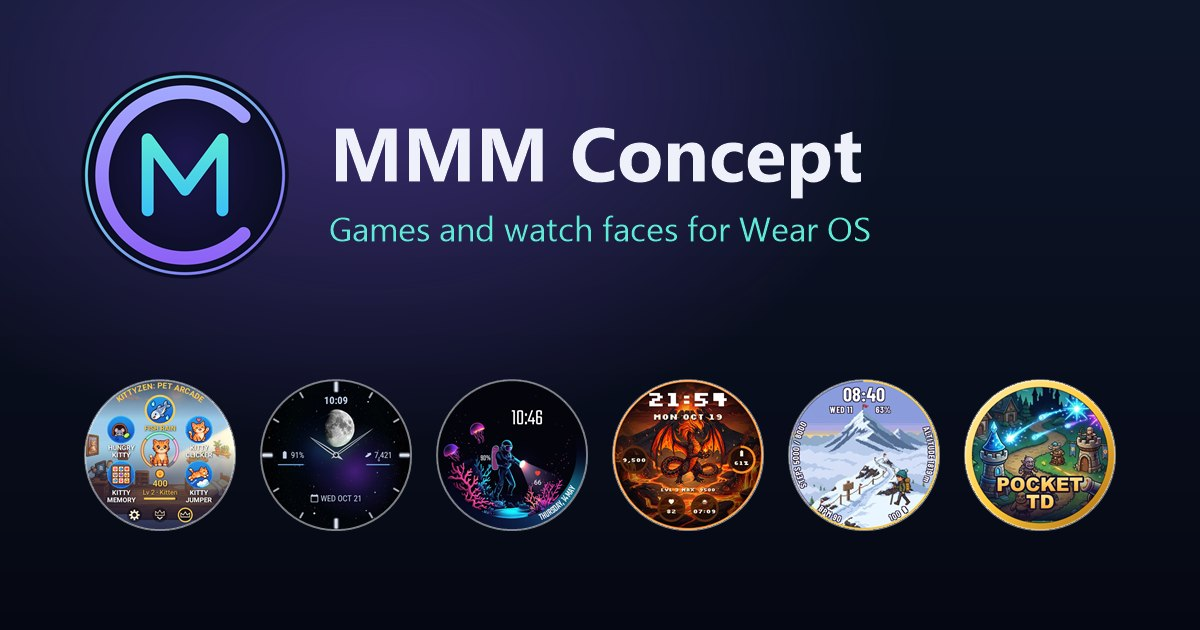
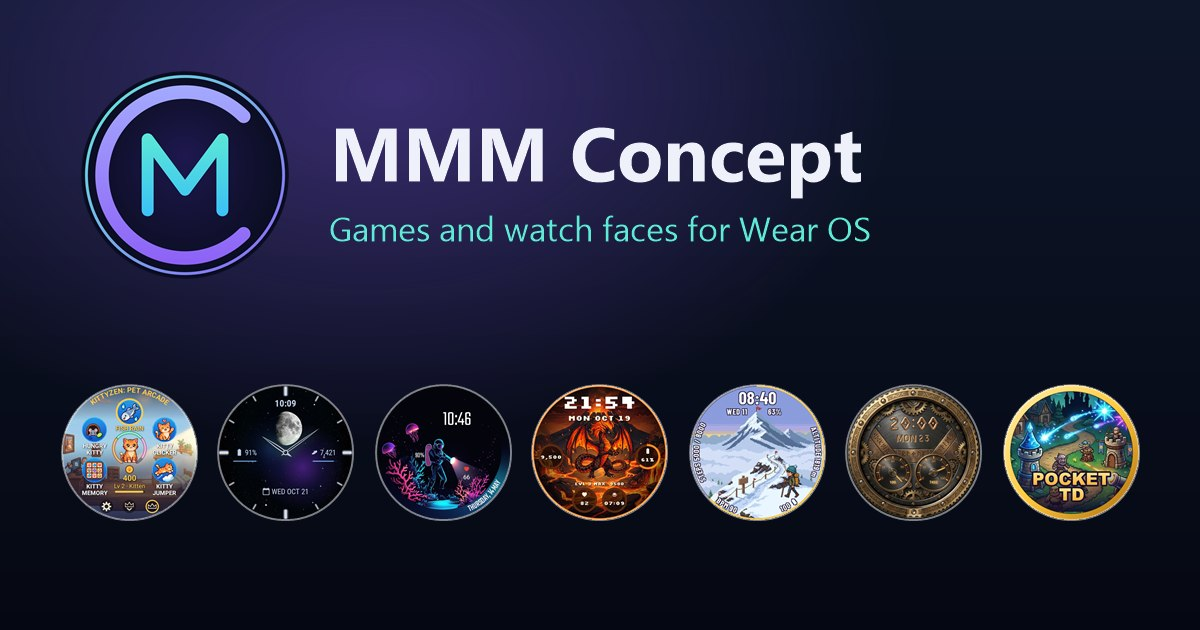
Site: MMM Dwarven Rune Gear card (Coming soon), 9 languages, OG image

Changed region(s): [[0.0308, 0.6032, 0.9558, 0.8444]]

diff --git a/ja/index.html b/ja/index.html
@@ -163,6 +163,7 @@
             <img src="../images/cards/abyss_card_720.webp" srcset="../images/cards/abyss_card_480.webp 480w, ../images/cards/abyss_card_720.webp 720w" sizes="(max-width: 600px) 80vw, 480px" width="720" height="720" alt="MMM Abyss Deep Sea Explorer" data-name="MMM Abyss Deep Sea Explorer" data-target="app-abyss" loading="lazy">
             <img src="../images/cards/emberling_card_720.webp" srcset="../images/cards/emberling_card_480.webp 480w, ../images/cards/emberling_card_720.webp 720w" sizes="(max-width: 600px) 80vw, 480px" width="720" height="720" alt="MMM Emberling Dragon Pet" data-name="MMM Emberling Dragon Pet" data-target="app-emberling" loading="lazy">
             <img src="../images/cards/steppeak_card_720.webp" srcset="../images/cards/steppeak_card_480.webp 480w, ../images/cards/steppeak_card_720.webp 720w" sizes="(max-width: 600px) 80vw, 480px" width="720" height="720" alt="MMM Steppeak: Step Goal Hiker" data-name="MMM Steppeak: Step Goal Hiker" data-target="app-steppeak" loading="lazy">
+            <img src="../images/cards/dwarven_card_720.webp" srcset="../images/cards/dwarven_card_480.webp 480w, ../images/cards/dwarven_card_720.webp 720w" sizes="(max-width: 600px) 80vw, 480px" width="720" height="720" alt="MMM Dwarven Rune Gear" data-name="MMM Dwarven Rune Gear" data-target="app-dwarven" loading="lazy">
             <img src="../images/cards/pocket_td_card_720.webp" srcset="../images/cards/pocket_td_card_480.webp 480w, ../images/cards/pocket_td_card_720.webp 720w" sizes="(max-width: 600px) 80vw, 480px" width="720" height="720" alt="Pocket Tower Defense" data-name="Pocket Tower Defense" data-target="app-pocket-td" loading="lazy">
           </div>
         </div>
@@ -226,6 +227,14 @@
           <p class="tag">Wear OS 向けウォッチフェイス</p>
           <p>1日の歩数目標に向かって歩くと、ドット絵のハイカーが山を登っていきます。山のふもとから山頂の旗まで6つの場面、金色の進捗アーク、目標に対する歩数、カスタマイズできる2つのデータ枠。歩数のデータはウォッチの中に残ります。</p>
           <span class="btn btn-soon" role="note" data-play-url="https://play.google.com/store/apps/details?id=com.mmmconcept.steppeakstepgoalhiker">近日公開</span>
+        </article>
+
+        <article class="card" id="app-dwarven" data-kind="face">
+          <div class="card-media"><img src="../images/cards/dwarven_card_720.webp" srcset="../images/cards/dwarven_card_480.webp 480w, ../images/cards/dwarven_card_720.webp 720w" sizes="(max-width: 600px) 80vw, 480px" width="720" height="720" loading="lazy" alt="ルーン文字のベゼルに彫刻された真鍮の時計を配した MMM Dwarven Rune Gear ウォッチフェイス"></div>
+          <h3>MMM Dwarven Rune Gear</h3>
+          <p class="tag">Wear OS 向けウォッチフェイス</p>
+          <p>リベット、ルーンプレート、歯車をあしらったルーンベゼルの中に、彫刻と面取りを施した金属の時計を配置。ウォッチフェイスのエディターで選べる 6 種類のメタルスタイル: Brass、Mithril、Obsidian、Copper、Emerald、Magma。好きなデータを表示できる 2 つの丸いダイヤルと、輪郭が光るアンビエント表示に対応。ウォッチ単体で動作します。アカウント不要、広告なし。</p>
+          <span class="btn btn-soon" role="note" data-play-url="https://play.google.com/store/apps/details?id=com.mmmconcept.dwarvenrunegear">近日公開</span>
         </article>
 
         <article class="card" id="app-pocket-td" data-kind="game">

diff --git a/ko/index.html b/ko/index.html
@@ -163,6 +163,7 @@
             <img src="../images/cards/abyss_card_720.webp" srcset="../images/cards/abyss_card_480.webp 480w, ../images/cards/abyss_card_720.webp 720w" sizes="(max-width: 600px) 80vw, 480px" width="720" height="720" alt="MMM Abyss Deep Sea Explorer" data-name="MMM Abyss Deep Sea Explorer" data-target="app-abyss" loading="lazy">
             <img src="../images/cards/emberling_card_720.webp" srcset="../images/cards/emberling_card_480.webp 480w, ../images/cards/emberling_card_720.webp 720w" sizes="(max-width: 600px) 80vw, 480px" width="720" height="720" alt="MMM Emberling Dragon Pet" data-name="MMM Emberling Dragon Pet" data-target="app-emberling" loading="lazy">
             <img src="../images/cards/steppeak_card_720.webp" srcset="../images/cards/steppeak_card_480.webp 480w, ../images/cards/steppeak_card_720.webp 720w" sizes="(max-width: 600px) 80vw, 480px" width="720" height="720" alt="MMM Steppeak: Step Goal Hiker" data-name="MMM Steppeak: Step Goal Hiker" data-target="app-steppeak" loading="lazy">
+            <img src="../images/cards/dwarven_card_720.webp" srcset="../images/cards/dwarven_card_480.webp 480w, ../images/cards/dwarven_card_720.webp 720w" sizes="(max-width: 600px) 80vw, 480px" width="720" height="720" alt="MMM Dwarven Rune Gear" data-name="MMM Dwarven Rune Gear" data-target="app-dwarven" loading="lazy">
             <img src="../images/cards/pocket_td_card_720.webp" srcset="../images/cards/pocket_td_card_480.webp 480w, ../images/cards/pocket_td_card_720.webp 720w" sizes="(max-width: 600px) 80vw, 480px" width="720" height="720" alt="Pocket Tower Defense" data-name="Pocket Tower Defense" data-target="app-pocket-td" loading="lazy">
           </div>
         </div>
@@ -226,6 +227,14 @@
           <p class="tag">Wear OS용 워치페이스</p>
           <p>하루 걸음 수 목표를 향해 걸으면 픽셀 등산객이 산을 오릅니다. 산기슭부터 정상의 깃발까지 6개의 장면, 금빛 진행 호, 목표 대비 걸음 수, 직접 설정할 수 있는 데이터 칸 2개. 걸음 수 데이터는 워치에만 남습니다.</p>
           <span class="btn btn-soon" role="note" data-play-url="https://play.google.com/store/apps/details?id=com.mmmconcept.steppeakstepgoalhiker">출시 예정</span>
+        </article>
+
+        <article class="card" id="app-dwarven" data-kind="face">
+          <div class="card-media"><img src="../images/cards/dwarven_card_720.webp" srcset="../images/cards/dwarven_card_480.webp 480w, ../images/cards/dwarven_card_720.webp 720w" sizes="(max-width: 600px) 80vw, 480px" width="720" height="720" loading="lazy" alt="룬 베젤 안에 새겨진 황동 시계가 있는 MMM Dwarven Rune Gear 워치 페이스"></div>
+          <h3>MMM Dwarven Rune Gear</h3>
+          <p class="tag">Wear OS용 워치페이스</p>
+          <p>리벳, 룬 플레이트, 톱니바퀴가 달린 룬 베젤 안에 새기고 모따기한 금속 시계를 담았습니다. 워치 페이스 편집기에서 고르는 여섯 가지 금속 스타일: Brass, Mithril, Obsidian, Copper, Emerald, Magma. 원하는 데이터를 보여 주는 둥근 다이얼 두 개와 윤곽이 빛나는 상시 표시 모드를 지원합니다. 워치만으로 작동합니다. 계정도 광고도 없습니다.</p>
+          <span class="btn btn-soon" role="note" data-play-url="https://play.google.com/store/apps/details?id=com.mmmconcept.dwarvenrunegear">출시 예정</span>
         </article>
 
         <article class="card" id="app-pocket-td" data-kind="game">

diff --git a/fr/index.html b/fr/index.html
@@ -163,6 +163,7 @@
             <img src="../images/cards/abyss_card_720.webp" srcset="../images/cards/abyss_card_480.webp 480w, ../images/cards/abyss_card_720.webp 720w" sizes="(max-width: 600px) 80vw, 480px" width="720" height="720" alt="MMM Abyss Deep Sea Explorer" data-name="MMM Abyss Deep Sea Explorer" data-target="app-abyss" loading="lazy">
             <img src="../images/cards/emberling_card_720.webp" srcset="../images/cards/emberling_card_480.webp 480w, ../images/cards/emberling_card_720.webp 720w" sizes="(max-width: 600px) 80vw, 480px" width="720" height="720" alt="MMM Emberling Dragon Pet" data-name="MMM Emberling Dragon Pet" data-target="app-emberling" loading="lazy">
             <img src="../images/cards/steppeak_card_720.webp" srcset="../images/cards/steppeak_card_480.webp 480w, ../images/cards/steppeak_card_720.webp 720w" sizes="(max-width: 600px) 80vw, 480px" width="720" height="720" alt="MMM Steppeak: Step Goal Hiker" data-name="MMM Steppeak: Step Goal Hiker" data-target="app-steppeak" loading="lazy">
+            <img src="../images/cards/dwarven_card_720.webp" srcset="../images/cards/dwarven_card_480.webp 480w, ../images/cards/dwarven_card_720.webp 720w" sizes="(max-width: 600px) 80vw, 480px" width="720" height="720" alt="MMM Dwarven Rune Gear" data-name="MMM Dwarven Rune Gear" data-target="app-dwarven" loading="lazy">
             <img src="../images/cards/pocket_td_card_720.webp" srcset="../images/cards/pocket_td_card_480.webp 480w, ../images/cards/pocket_td_card_720.webp 720w" sizes="(max-width: 600px) 80vw, 480px" width="720" height="720" alt="Pocket Tower Defense" data-name="Pocket Tower Defense" data-target="app-pocket-td" loading="lazy">
           </div>
         </div>
@@ -226,6 +227,14 @@
           <p class="tag">Cadran de montre pour Wear OS</p>
           <p>Un randonneur en pixel art gravit une montagne à mesure que vous marchez vers votre objectif quotidien de pas. Six scènes, du pied de la montagne au drapeau du sommet, un arc de progression doré, vos pas face à votre objectif et deux champs personnalisables. Vos pas restent sur votre montre.</p>
           <span class="btn btn-soon" role="note" data-play-url="https://play.google.com/store/apps/details?id=com.mmmconcept.steppeakstepgoalhiker">Bientôt disponible</span>
+        </article>
+
+        <article class="card" id="app-dwarven" data-kind="face">
+          <div class="card-media"><img src="../images/cards/dwarven_card_720.webp" srcset="../images/cards/dwarven_card_480.webp 480w, ../images/cards/dwarven_card_720.webp 720w" sizes="(max-width: 600px) 80vw, 480px" width="720" height="720" loading="lazy" alt="Cadran MMM Dwarven Rune Gear avec une horloge en laiton gravé dans une lunette runique"></div>
+          <h3>MMM Dwarven Rune Gear</h3>
+          <p class="tag">Cadran de montre pour Wear OS</p>
+          <p>Une horloge en métal gravé et biseauté dans une lunette runique ornée de rivets, de plaques de runes et d'engrenages. Six styles de métal à choisir dans l'éditeur du cadran : Brass, Mithril, Obsidian, Copper, Emerald et Magma. Deux cadrans ronds pour les données de votre choix et un mode always-on aux contours lumineux. Fonctionne sur la montre seule. Sans compte ni publicité.</p>
+          <span class="btn btn-soon" role="note" data-play-url="https://play.google.com/store/apps/details?id=com.mmmconcept.dwarvenrunegear">Bientôt disponible</span>
         </article>
 
         <article class="card" id="app-pocket-td" data-kind="game">

diff --git a/it/index.html b/it/index.html
@@ -163,6 +163,7 @@
             <img src="../images/cards/abyss_card_720.webp" srcset="../images/cards/abyss_card_480.webp 480w, ../images/cards/abyss_card_720.webp 720w" sizes="(max-width: 600px) 80vw, 480px" width="720" height="720" alt="MMM Abyss Deep Sea Explorer" data-name="MMM Abyss Deep Sea Explorer" data-target="app-abyss" loading="lazy">
             <img src="../images/cards/emberling_card_720.webp" srcset="../images/cards/emberling_card_480.webp 480w, ../images/cards/emberling_card_720.webp 720w" sizes="(max-width: 600px) 80vw, 480px" width="720" height="720" alt="MMM Emberling Dragon Pet" data-name="MMM Emberling Dragon Pet" data-target="app-emberling" loading="lazy">
             <img src="../images/cards/steppeak_card_720.webp" srcset="../images/cards/steppeak_card_480.webp 480w, ../images/cards/steppeak_card_720.webp 720w" sizes="(max-width: 600px) 80vw, 480px" width="720" height="720" alt="MMM Steppeak: Step Goal Hiker" data-name="MMM Steppeak: Step Goal Hiker" data-target="app-steppeak" loading="lazy">
+            <img src="../images/cards/dwarven_card_720.webp" srcset="../images/cards/dwarven_card_480.webp 480w, ../images/cards/dwarven_card_720.webp 720w" sizes="(max-width: 600px) 80vw, 480px" width="720" height="720" alt="MMM Dwarven Rune Gear" data-name="MMM Dwarven Rune Gear" data-target="app-dwarven" loading="lazy">
             <img src="../images/cards/pocket_td_card_720.webp" srcset="../images/cards/pocket_td_card_480.webp 480w, ../images/cards/pocket_td_card_720.webp 720w" sizes="(max-width: 600px) 80vw, 480px" width="720" height="720" alt="Pocket Tower Defense" data-name="Pocket Tower Defense" data-target="app-pocket-td" loading="lazy">
           </div>
         </div>
@@ -226,6 +227,14 @@
           <p class="tag">Quadrante per Wear OS</p>
           <p>Un escursionista pixel art sale su una montagna mentre cammini verso il tuo obiettivo giornaliero di passi. Sei scene dalla base della montagna alla bandiera sulla vetta, un arco di avanzamento dorato, i tuoi passi rispetto all'obiettivo e due campi personalizzabili. I tuoi passi restano sul tuo orologio.</p>
           <span class="btn btn-soon" role="note" data-play-url="https://play.google.com/store/apps/details?id=com.mmmconcept.steppeakstepgoalhiker">In arrivo</span>
+        </article>
+
+        <article class="card" id="app-dwarven" data-kind="face">
+          <div class="card-media"><img src="../images/cards/dwarven_card_720.webp" srcset="../images/cards/dwarven_card_480.webp 480w, ../images/cards/dwarven_card_720.webp 720w" sizes="(max-width: 600px) 80vw, 480px" width="720" height="720" loading="lazy" alt="Quadrante MMM Dwarven Rune Gear con un orologio d'ottone inciso in una ghiera runica"></div>
+          <h3>MMM Dwarven Rune Gear</h3>
+          <p class="tag">Quadrante per Wear OS</p>
+          <p>Un orologio di metallo inciso e smussato in una ghiera runica con rivetti, placche di rune e ingranaggi. Sei stili di metallo da scegliere nell'editor del quadrante: Brass, Mithril, Obsidian, Copper, Emerald e Magma. Due quadranti rotondi per i dati che scegli e una modalità always-on con contorni luminosi. Funziona sul solo orologio. Senza account e senza pubblicità.</p>
+          <span class="btn btn-soon" role="note" data-play-url="https://play.google.com/store/apps/details?id=com.mmmconcept.dwarvenrunegear">In arrivo</span>
         </article>
 
         <article class="card" id="app-pocket-td" data-kind="game">

diff --git a/pt/index.html b/pt/index.html
@@ -163,6 +163,7 @@
             <img src="../images/cards/abyss_card_720.webp" srcset="../images/cards/abyss_card_480.webp 480w, ../images/cards/abyss_card_720.webp 720w" sizes="(max-width: 600px) 80vw, 480px" width="720" height="720" alt="MMM Abyss Deep Sea Explorer" data-name="MMM Abyss Deep Sea Explorer" data-target="app-abyss" loading="lazy">
             <img src="../images/cards/emberling_card_720.webp" srcset="../images/cards/emberling_card_480.webp 480w, ../images/cards/emberling_card_720.webp 720w" sizes="(max-width: 600px) 80vw, 480px" width="720" height="720" alt="MMM Emberling Dragon Pet" data-name="MMM Emberling Dragon Pet" data-target="app-emberling" loading="lazy">
             <img src="../images/cards/steppeak_card_720.webp" srcset="../images/cards/steppeak_card_480.webp 480w, ../images/cards/steppeak_card_720.webp 720w" sizes="(max-width: 600px) 80vw, 480px" width="720" height="720" alt="MMM Steppeak: Step Goal Hiker" data-name="MMM Steppeak: Step Goal Hiker" data-target="app-steppeak" loading="lazy">
+            <img src="../images/cards/dwarven_card_720.webp" srcset="../images/cards/dwarven_card_480.webp 480w, ../images/cards/dwarven_card_720.webp 720w" sizes="(max-width: 600px) 80vw, 480px" width="720" height="720" alt="MMM Dwarven Rune Gear" data-name="MMM Dwarven Rune Gear" data-target="app-dwarven" loading="lazy">
             <img src="../images/cards/pocket_td_card_720.webp" srcset="../images/cards/pocket_td_card_480.webp 480w, ../images/cards/pocket_td_card_720.webp 720w" sizes="(max-width: 600px) 80vw, 480px" width="720" height="720" alt="Pocket Tower Defense" data-name="Pocket Tower Defense" data-target="app-pocket-td" loading="lazy">
           </div>
         </div>
@@ -226,6 +227,14 @@
           <p class="tag">Mostrador para Wear OS</p>
           <p>Um trilheiro pixelado sobe uma montanha conforme você caminha rumo à sua meta diária de passos. Seis cenas, do pé da montanha até a bandeira no cume, um arco dourado de progresso, seus passos em relação à meta e dois campos personalizáveis. Seus passos ficam no seu relógio.</p>
           <span class="btn btn-soon" role="note" data-play-url="https://play.google.com/store/apps/details?id=com.mmmconcept.steppeakstepgoalhiker">Em breve</span>
+        </article>
+
+        <article class="card" id="app-dwarven" data-kind="face">
+          <div class="card-media"><img src="../images/cards/dwarven_card_720.webp" srcset="../images/cards/dwarven_card_480.webp 480w, ../images/cards/dwarven_card_720.webp 720w" sizes="(max-width: 600px) 80vw, 480px" width="720" height="720" loading="lazy" alt="Mostrador MMM Dwarven Rune Gear com um relógio de latão gravado em uma moldura de runas"></div>
+          <h3>MMM Dwarven Rune Gear</h3>
+          <p class="tag">Mostrador para Wear OS</p>
+          <p>Um relógio de metal gravado e chanfrado dentro de uma moldura de runas com rebites, placas de runas e engrenagens. Seis estilos de metal para escolher no editor do mostrador: Brass, Mithril, Obsidian, Copper, Emerald e Magma. Dois mostradores redondos para os dados que você escolher e um modo always-on com contornos brilhantes. Funciona só no relógio. Sem conta e sem anúncios.</p>
+          <span class="btn btn-soon" role="note" data-play-url="https://play.google.com/store/apps/details?id=com.mmmconcept.dwarvenrunegear">Em breve</span>
         </article>
 
         <article class="card" id="app-pocket-td" data-kind="game">

diff --git a/es/index.html b/es/index.html
@@ -163,6 +163,7 @@
             <img src="../images/cards/abyss_card_720.webp" srcset="../images/cards/abyss_card_480.webp 480w, ../images/cards/abyss_card_720.webp 720w" sizes="(max-width: 600px) 80vw, 480px" width="720" height="720" alt="MMM Abyss Deep Sea Explorer" data-name="MMM Abyss Deep Sea Explorer" data-target="app-abyss" loading="lazy">
             <img src="../images/cards/emberling_card_720.webp" srcset="../images/cards/emberling_card_480.webp 480w, ../images/cards/emberling_card_720.webp 720w" sizes="(max-width: 600px) 80vw, 480px" width="720" height="720" alt="MMM Emberling Dragon Pet" data-name="MMM Emberling Dragon Pet" data-target="app-emberling" loading="lazy">
             <img src="../images/cards/steppeak_card_720.webp" srcset="../images/cards/steppeak_card_480.webp 480w, ../images/cards/steppeak_card_720.webp 720w" sizes="(max-width: 600px) 80vw, 480px" width="720" height="720" alt="MMM Steppeak: Step Goal Hiker" data-name="MMM Steppeak: Step Goal Hiker" data-target="app-steppeak" loading="lazy">
+            <img src="../images/cards/dwarven_card_720.webp" srcset="../images/cards/dwarven_card_480.webp 480w, ../images/cards/dwarven_card_720.webp 720w" sizes="(max-width: 600px) 80vw, 480px" width="720" height="720" alt="MMM Dwarven Rune Gear" data-name="MMM Dwarven Rune Gear" data-target="app-dwarven" loading="lazy">
             <img src="../images/cards/pocket_td_card_720.webp" srcset="../images/cards/pocket_td_card_480.webp 480w, ../images/cards/pocket_td_card_720.webp 720w" sizes="(max-width: 600px) 80vw, 480px" width="720" height="720" alt="Pocket Tower Defense" data-name="Pocket Tower Defense" data-target="app-pocket-td" loading="lazy">
           </div>
         </div>
@@ -226,6 +227,14 @@
           <p class="tag">Esfera de reloj para Wear OS</p>
           <p>Un senderista pixelado sube una montaña mientras caminas hacia tu objetivo diario de pasos. Seis escenas desde el pie de la montaña hasta la bandera de la cima, un arco dorado de progreso, tus pasos frente a tu objetivo y dos campos personalizables. Tus pasos se quedan en tu reloj.</p>
           <span class="btn btn-soon" role="note" data-play-url="https://play.google.com/store/apps/details?id=com.mmmconcept.steppeakstepgoalhiker">Próximamente</span>
+        </article>
+
+        <article class="card" id="app-dwarven" data-kind="face">
+          <div class="card-media"><img src="../images/cards/dwarven_card_720.webp" srcset="../images/cards/dwarven_card_480.webp 480w, ../images/cards/dwarven_card_720.webp 720w" sizes="(max-width: 600px) 80vw, 480px" width="720" height="720" loading="lazy" alt="Esfera MMM Dwarven Rune Gear con un reloj de latón grabado en un bisel de runas"></div>
+          <h3>MMM Dwarven Rune Gear</h3>
+          <p class="tag">Esfera de reloj para Wear OS</p>
+          <p>Un reloj de metal grabado y biselado dentro de un bisel de runas con remaches, placas de runas y engranajes. Seis estilos de metal para elegir en el editor de la esfera: Brass, Mithril, Obsidian, Copper, Emerald y Magma. Dos diales redondos con los datos que elijas y un modo siempre activo con contornos brillantes. Funciona solo en el reloj. Sin cuenta ni anuncios.</p>
+          <span class="btn btn-soon" role="note" data-play-url="https://play.google.com/store/apps/details?id=com.mmmconcept.dwarvenrunegear">Próximamente</span>
         </article>
 
         <article class="card" id="app-pocket-td" data-kind="game">

diff --git a/de/index.html b/de/index.html
@@ -163,6 +163,7 @@
             <img src="../images/cards/abyss_card_720.webp" srcset="../images/cards/abyss_card_480.webp 480w, ../images/cards/abyss_card_720.webp 720w" sizes="(max-width: 600px) 80vw, 480px" width="720" height="720" alt="MMM Abyss Deep Sea Explorer" data-name="MMM Abyss Deep Sea Explorer" data-target="app-abyss" loading="lazy">
             <img src="../images/cards/emberling_card_720.webp" srcset="../images/cards/emberling_card_480.webp 480w, ../images/cards/emberling_card_720.webp 720w" sizes="(max-width: 600px) 80vw, 480px" width="720" height="720" alt="MMM Emberling Dragon Pet" data-name="MMM Emberling Dragon Pet" data-target="app-emberling" loading="lazy">
             <img src="../images/cards/steppeak_card_720.webp" srcset="../images/cards/steppeak_card_480.webp 480w, ../images/cards/steppeak_card_720.webp 720w" sizes="(max-width: 600px) 80vw, 480px" width="720" height="720" alt="MMM Steppeak: Step Goal Hiker" data-name="MMM Steppeak: Step Goal Hiker" data-target="app-steppeak" loading="lazy">
+            <img src="../images/cards/dwarven_card_720.webp" srcset="../images/cards/dwarven_card_480.webp 480w, ../images/cards/dwarven_card_720.webp 720w" sizes="(max-width: 600px) 80vw, 480px" width="720" height="720" alt="MMM Dwarven Rune Gear" data-name="MMM Dwarven Rune Gear" data-target="app-dwarven" loading="lazy">
             <img src="../images/cards/pocket_td_card_720.webp" srcset="../images/cards/pocket_td_card_480.webp 480w, ../images/cards/pocket_td_card_720.webp 720w" sizes="(max-width: 600px) 80vw, 480px" width="720" height="720" alt="Pocket Tower Defense" data-name="Pocket Tower Defense" data-target="app-pocket-td" loading="lazy">
           </div>
         </div>
@@ -226,6 +227,14 @@
           <p class="tag">Watchface für Wear OS</p>
           <p>Ein Pixel-Wanderer klettert einen Berg hinauf, während du auf dein tägliches Schrittziel zugehst. Sechs Szenen vom Fuß des Berges bis zur Gipfelflagge, ein goldener Fortschrittsbogen, deine Schritte im Vergleich zum Ziel und zwei anpassbare Felder. Deine Schritte bleiben auf deiner Uhr.</p>
           <span class="btn btn-soon" role="note" data-play-url="https://play.google.com/store/apps/details?id=com.mmmconcept.steppeakstepgoalhiker">Demnächst</span>
+        </article>
+
+        <article class="card" id="app-dwarven" data-kind="face">
+          <div class="card-media"><img src="../images/cards/dwarven_card_720.webp" srcset="../images/cards/dwarven_card_480.webp 480w, ../images/cards/dwarven_card_720.webp 720w" sizes="(max-width: 600px) 80vw, 480px" width="720" height="720" loading="lazy" alt="Zifferblatt MMM Dwarven Rune Gear mit gravierter Messinguhr in einer Runenlünette"></div>
+          <h3>MMM Dwarven Rune Gear</h3>
+          <p class="tag">Watchface für Wear OS</p>
+          <p>Eine gravierte, abgeschrägte Metalluhr in einer Runenlünette mit Nieten, Runenplatten und Zahnrädern. Sechs Metallstile im Editor wählbar: Brass, Mithril, Obsidian, Copper, Emerald und Magma. Zwei runde Anzeigen für Daten deiner Wahl und ein Always-on-Modus mit leuchtenden Umrissen. Funktioniert allein auf der Uhr. Kein Konto, keine Werbung.</p>
+          <span class="btn btn-soon" role="note" data-play-url="https://play.google.com/store/apps/details?id=com.mmmconcept.dwarvenrunegear">Demnächst</span>
         </article>
 
         <article class="card" id="app-pocket-td" data-kind="game">

diff --git a/pl/index.html b/pl/index.html
@@ -163,6 +163,7 @@
             <img src="../images/cards/abyss_card_720.webp" srcset="../images/cards/abyss_card_480.webp 480w, ../images/cards/abyss_card_720.webp 720w" sizes="(max-width: 600px) 80vw, 480px" width="720" height="720" alt="MMM Abyss Deep Sea Explorer" data-name="MMM Abyss Deep Sea Explorer" data-target="app-abyss" loading="lazy">
             <img src="../images/cards/emberling_card_720.webp" srcset="../images/cards/emberling_card_480.webp 480w, ../images/cards/emberling_card_720.webp 720w" sizes="(max-width: 600px) 80vw, 480px" width="720" height="720" alt="MMM Emberling Dragon Pet" data-name="MMM Emberling Dragon Pet" data-target="app-emberling" loading="lazy">
             <img src="../images/cards/steppeak_card_720.webp" srcset="../images/cards/steppeak_card_480.webp 480w, ../images/cards/steppeak_card_720.webp 720w" sizes="(max-width: 600px) 80vw, 480px" width="720" height="720" alt="MMM Steppeak: Step Goal Hiker" data-name="MMM Steppeak: Step Goal Hiker" data-target="app-steppeak" loading="lazy">
+            <img src="../images/cards/dwarven_card_720.webp" srcset="../images/cards/dwarven_card_480.webp 480w, ../images/cards/dwarven_card_720.webp 720w" sizes="(max-width: 600px) 80vw, 480px" width="720" height="720" alt="MMM Dwarven Rune Gear" data-name="MMM Dwarven Rune Gear" data-target="app-dwarven" loading="lazy">
             <img src="../images/cards/pocket_td_card_720.webp" srcset="../images/cards/pocket_td_card_480.webp 480w, ../images/cards/pocket_td_card_720.webp 720w" sizes="(max-width: 600px) 80vw, 480px" width="720" height="720" alt="Pocket Tower Defense" data-name="Pocket Tower Defense" data-target="app-pocket-td" loading="lazy">
           </div>
         </div>
@@ -226,6 +227,14 @@
           <p class="tag">Tarcza na Wear OS</p>
           <p>Pikselowy turysta wspina się na górę, gdy idziesz ku swojemu dziennemu celowi kroków. Sześć scen od podnóża góry po flagę na szczycie, złoty łuk postępu, Twoje kroki na tle celu i dwa konfigurowalne pola. Twoje kroki zostają na zegarku.</p>
           <span class="btn btn-soon" role="note" data-play-url="https://play.google.com/store/apps/details?id=com.mmmconcept.steppeakstepgoalhiker">Wkrótce</span>
+        </article>
+
+        <article class="card" id="app-dwarven" data-kind="face">
+          <div class="card-media"><img src="../images/cards/dwarven_card_720.webp" srcset="../images/cards/dwarven_card_480.webp 480w, ../images/cards/dwarven_card_720.webp 720w" sizes="(max-width: 600px) 80vw, 480px" width="720" height="720" loading="lazy" alt="Tarcza MMM Dwarven Rune Gear z grawerowanym mosiężnym zegarem w runicznym bezelu"></div>
+          <h3>MMM Dwarven Rune Gear</h3>
+          <p class="tag">Tarcza na Wear OS</p>
+          <p>Grawerowany, fazowany metalowy zegar w runicznym bezelu z nitami, płytami z runami i kołami zębatymi. Sześć stylów metalu do wyboru w edytorze tarczy: Brass, Mithril, Obsidian, Copper, Emerald i Magma. Dwa okrągłe liczniki z wybranymi przez Ciebie danymi i tryb always-on ze świecącymi konturami. Działa na samym zegarku. Bez konta i bez reklam.</p>
+          <span class="btn btn-soon" role="note" data-play-url="https://play.google.com/store/apps/details?id=com.mmmconcept.dwarvenrunegear">Wkrótce</span>
         </article>
 
         <article class="card" id="app-pocket-td" data-kind="game">

diff --git a/index.html b/index.html
@@ -163,6 +163,7 @@
             <img src="images/cards/abyss_card_720.webp" srcset="images/cards/abyss_card_480.webp 480w, images/cards/abyss_card_720.webp 720w" sizes="(max-width: 600px) 80vw, 480px" width="720" height="720" alt="MMM Abyss Deep Sea Explorer" data-name="MMM Abyss Deep Sea Explorer" data-target="app-abyss" loading="lazy">
             <img src="images/cards/emberling_card_720.webp" srcset="images/cards/emberling_card_480.webp 480w, images/cards/emberling_card_720.webp 720w" sizes="(max-width: 600px) 80vw, 480px" width="720" height="720" alt="MMM Emberling Dragon Pet" data-name="MMM Emberling Dragon Pet" data-target="app-emberling" loading="lazy">
             <img src="images/cards/steppeak_card_720.webp" srcset="images/cards/steppeak_card_480.webp 480w, images/cards/steppeak_card_720.webp 720w" sizes="(max-width: 600px) 80vw, 480px" width="720" height="720" alt="MMM Steppeak: Step Goal Hiker" data-name="MMM Steppeak: Step Goal Hiker" data-target="app-steppeak" loading="lazy">
+            <img src="images/cards/dwarven_card_720.webp" srcset="images/cards/dwarven_card_480.webp 480w, images/cards/dwarven_card_720.webp 720w" sizes="(max-width: 600px) 80vw, 480px" width="720" height="720" alt="MMM Dwarven Rune Gear" data-name="MMM Dwarven Rune Gear" data-target="app-dwarven" loading="lazy">
             <img src="images/cards/pocket_td_card_720.webp" srcset="images/cards/pocket_td_card_480.webp 480w, images/cards/pocket_td_card_720.webp 720w" sizes="(max-width: 600px) 80vw, 480px" width="720" height="720" alt="Pocket Tower Defense" data-name="Pocket Tower Defense" data-target="app-pocket-td" loading="lazy">
           </div>
         </div>
@@ -226,6 +227,14 @@
           <p class="tag">Watch face for Wear OS</p>
           <p>A pixel hiker climbs a mountain as you walk towards your daily step goal. Six scenes from the foot of the mountain to the summit flag, a gold progress arc, your steps against your goal and two customisable slots. Your steps stay on your watch.</p>
           <span class="btn btn-soon" role="note" data-play-url="https://play.google.com/store/apps/details?id=com.mmmconcept.steppeakstepgoalhiker">Coming soon</span>
+        </article>
+
+        <article class="card" id="app-dwarven" data-kind="face">
+          <div class="card-media"><img src="images/cards/dwarven_card_720.webp" srcset="images/cards/dwarven_card_480.webp 480w, images/cards/dwarven_card_720.webp 720w" sizes="(max-width: 600px) 80vw, 480px" width="720" height="720" loading="lazy" alt="MMM Dwarven Rune Gear watch face with an engraved brass clock in a runed bezel"></div>
+          <h3>MMM Dwarven Rune Gear</h3>
+          <p class="tag">Watch face for Wear OS</p>
+          <p>An engraved, bevelled metal clock in a runed bezel with rivets, rune plates and gears. Six metal styles to pick in the watch face editor: Brass, Mithril, Obsidian, Copper, Emerald and Magma. Two round dials for the data you choose and an always-on mode with glowing outlines. Works on the watch alone. No account, no ads.</p>
+          <span class="btn btn-soon" role="note" data-play-url="https://play.google.com/store/apps/details?id=com.mmmconcept.dwarvenrunegear">Coming soon</span>
         </article>
 
         <article class="card" id="app-pocket-td" data-kind="game">
